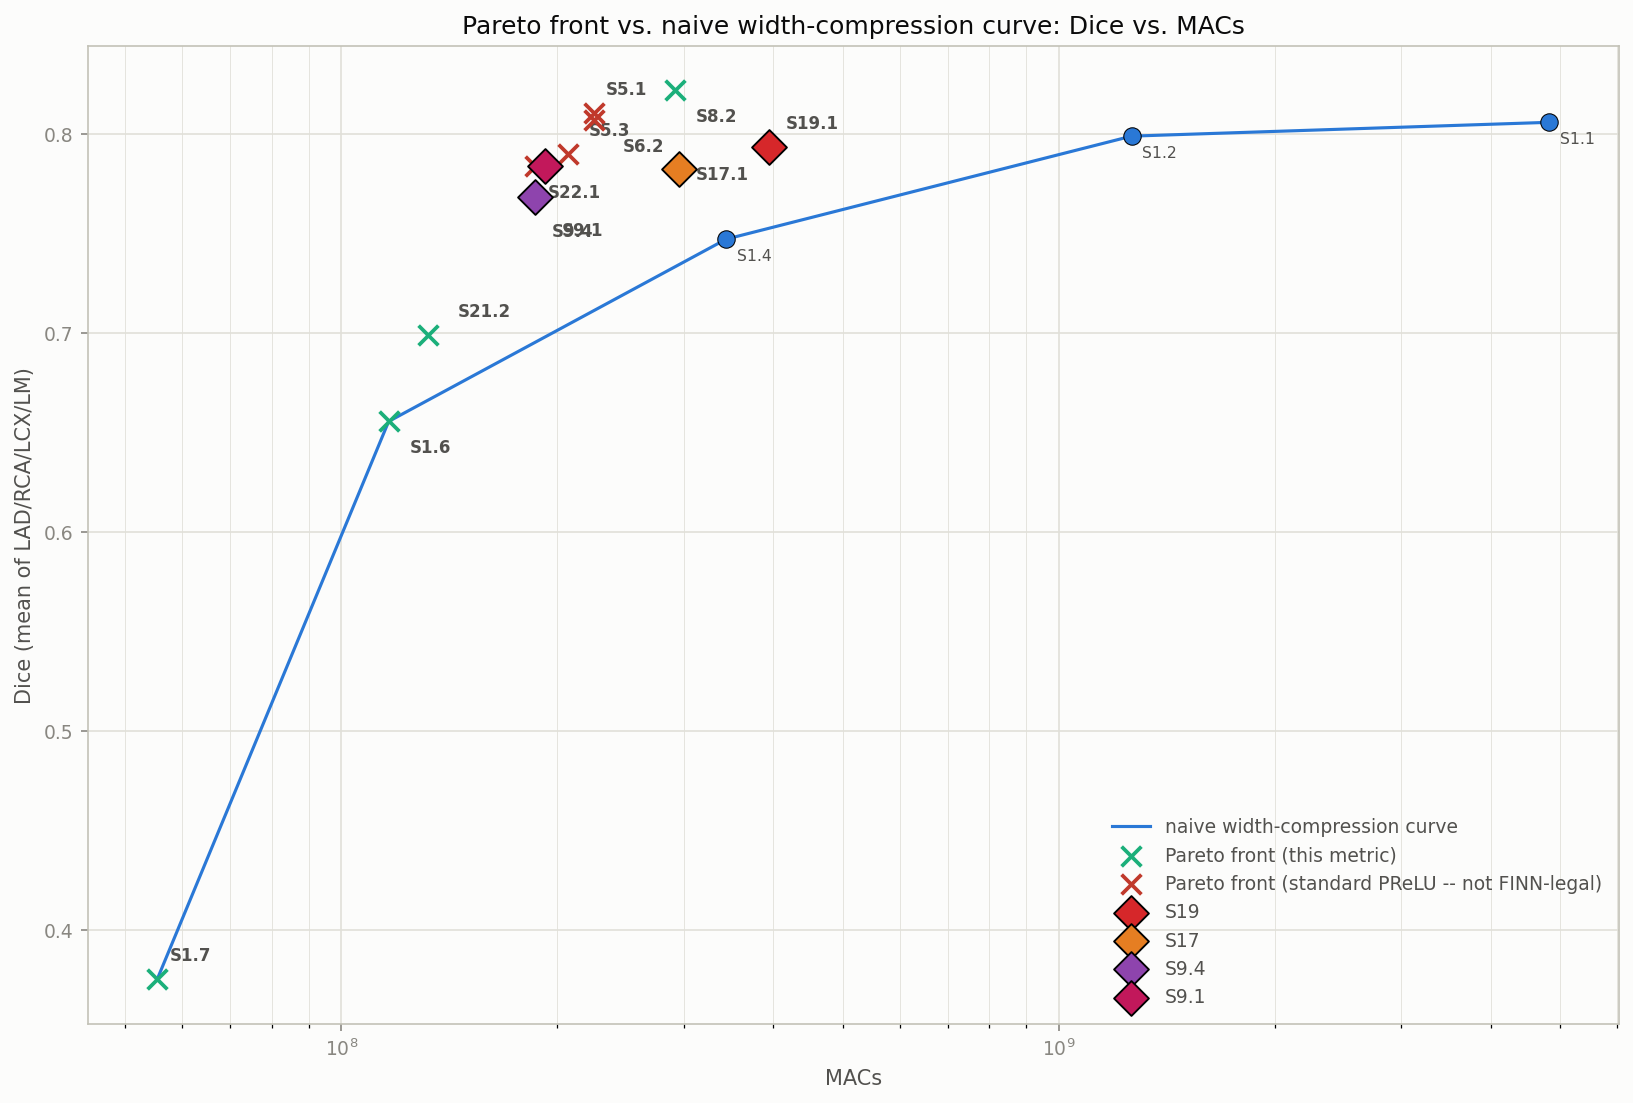
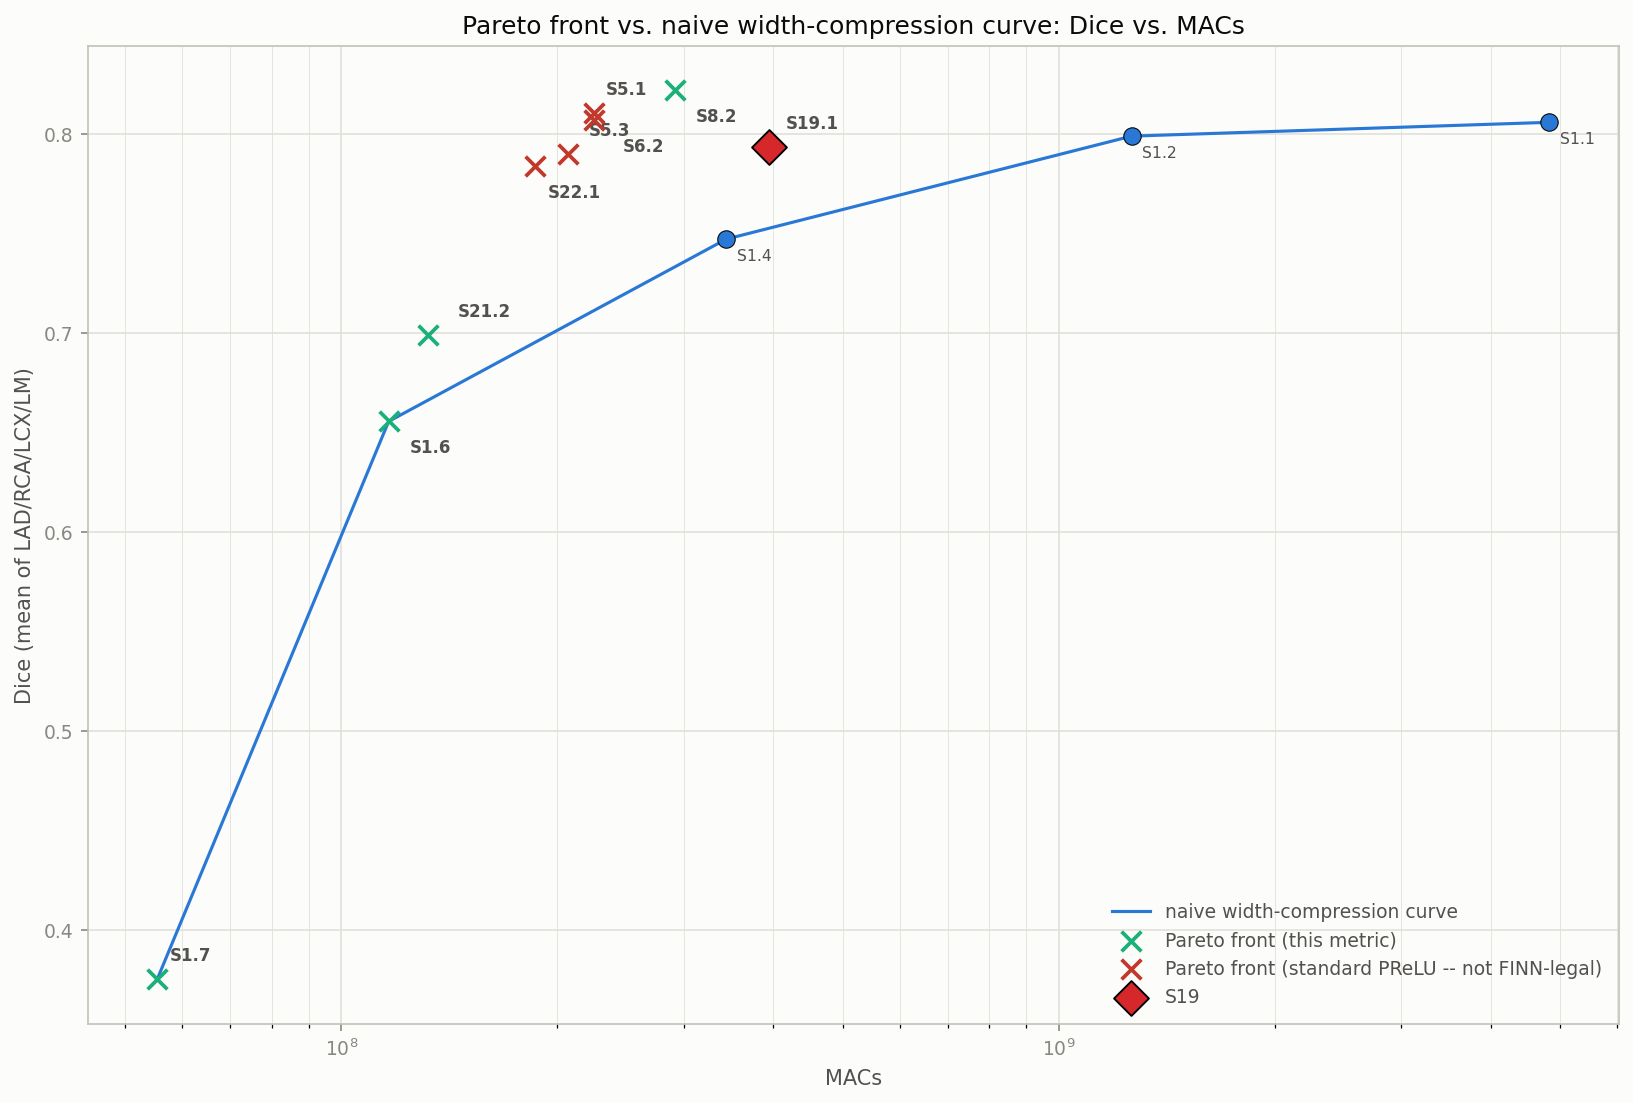
Final plots: drop the S5.3/S17/S9.4/S9.1 highlight diamonds, keep only S19
HIGHLIGHTED_CONFIGS trimmed back to just S19. The other four were useful
while actively investigating specific matched pairs (PReLU-vs-nonneg_block,
S9 family conversion) but clutter the figure now that stage 22 answered
those questions -- they render as normal green/red front markers again
instead of forced diamonds.

diff --git a/compression/plot_final_width_comparison.py b/compression/plot_final_width_comparison.py
@@ -71,18 +71,10 @@ NAIVE_STAGE = "1_naive_baseline"
 # distinguishes it from the rest of the front and from every other
 # highlighted config.
 S19_COLDSTART_CONFIG = "nnUNetTrainerENet_19_reginterleaved_separable_nonneg_block_double_mid"
-S5_3_CONFIG = "nnUNetTrainerENet_5_3_dense_dilation_merge_pairs"
-S17_CONFIG = "nnUNetTrainerENet_17_separable_dense_nonneg_block_coldstart"
-S9_4_CONFIG = "nnUNetTrainerENet_9_4_dense_dilation_dsc_projected_relu"
-S9_1_CONFIG = "nnUNetTrainerENet_9_1_dense_dilation_dsc_projected"
 # value = (marker color, legend label override -- None falls back to the
 # config's own config_abbreviations.csv abbrev, e.g. S5.3's "S5.3").
 HIGHLIGHTED_CONFIGS = {
     S19_COLDSTART_CONFIG: (S19_COLOR, "S19"),
-    S5_3_CONFIG: ("#e6a817", None),
-    S17_CONFIG: ("#e67e22", "S17"),
-    S9_4_CONFIG: ("#8e44ad", None),
-    S9_1_CONFIG: ("#c2185b", None),
 }
 
 # Runs trained via nnU-Net's own -pretrained_weights transfer (warm-started
